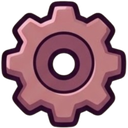
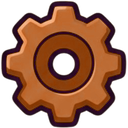
feat(view): use a wooden gear for the settings button

diff --git a/app/src/main/java/com/idlesmoothie/view/IdleSmoothieApp.java b/app/src/main/java/com/idlesmoothie/view/IdleSmoothieApp.java
@@ -17,7 +17,6 @@ import javafx.scene.Node;
 import javafx.scene.Scene;
 import javafx.scene.control.Button;
 import javafx.scene.control.Label;
-import javafx.scene.effect.ColorAdjust;
 import javafx.scene.image.Image;
 import javafx.scene.image.ImageView;
 import javafx.scene.layout.StackPane;
@@ -31,9 +30,6 @@ public class IdleSmoothieApp extends Application {
 
     private static final double HUD_MARGIN = 12;
     private static final double SETTINGS_ICON_SIZE = 30;
-    // Turns the gear white, like the texts of the HUD: no color, much brighter.
-    private static final double GEAR_SATURATION = -1;
-    private static final double GEAR_BRIGHTNESS = 0.75;
     private static final double HOVER_SCALE = 1.1;
     private static final Duration HOVER_DURATION = Duration.millis(150);
 
@@ -145,7 +141,6 @@ public class IdleSmoothieApp extends Application {
         icon.setFitWidth(SETTINGS_ICON_SIZE);
         icon.setFitHeight(SETTINGS_ICON_SIZE);
         icon.setSmooth(true);
-        icon.setEffect(new ColorAdjust(0, GEAR_SATURATION, GEAR_BRIGHTNESS, 0));
         return icon;
     }
 }
